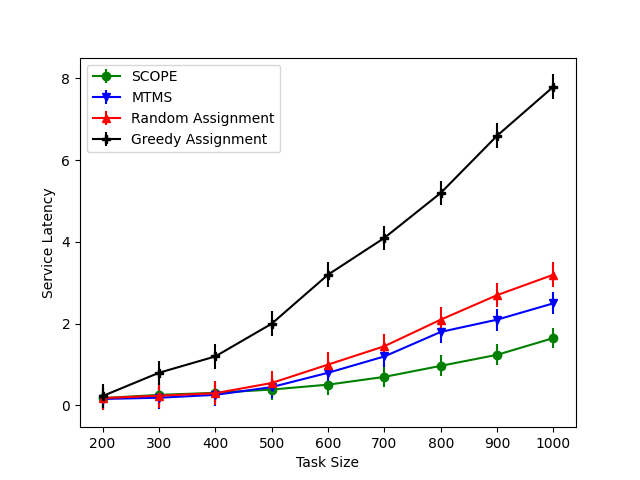
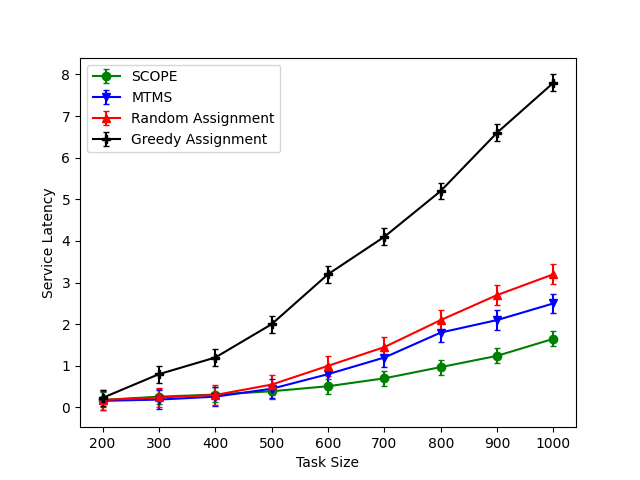
error bar updated

diff --git a/dummygraph.py b/dummygraph.py
@@ -278,10 +278,10 @@ def taskSizeVsLatency():
     plt.xlabel('Task Size')
     plt.ylabel('Service Latency')
     # plt.plot(x1, y4, marker='o', c='g', label='SCOPE')
-    plt.errorbar(x1, y4, color='green', label='SCOPE', yerr=0.255, marker='o')
-    plt.errorbar(x1, y1, color='b', label='MTMS', yerr=0.27, marker='v')
-    plt.errorbar(x1, y2, color='r', label='Random Assignment', yerr=0.3, marker='^')
-    plt.errorbar(x1, y3, color='k', label='Greedy Assignment', yerr=0.3, marker='P')
+    plt.errorbar(x1, y4, color='green', label='SCOPE', yerr=0.18, marker='o', capsize=2)
+    plt.errorbar(x1, y1, color='b', label='MTMS', yerr=0.23, marker='v', capsize=2)
+    plt.errorbar(x1, y2, color='r', label='Random Assignment', yerr=0.24, marker='^', capsize=2)
+    plt.errorbar(x1, y3, color='k', label='Greedy Assignment', yerr=0.20, marker='P', capsize=2)
 
     plt.legend()
     plt.savefig("Images/tasksizevslatency.png")
